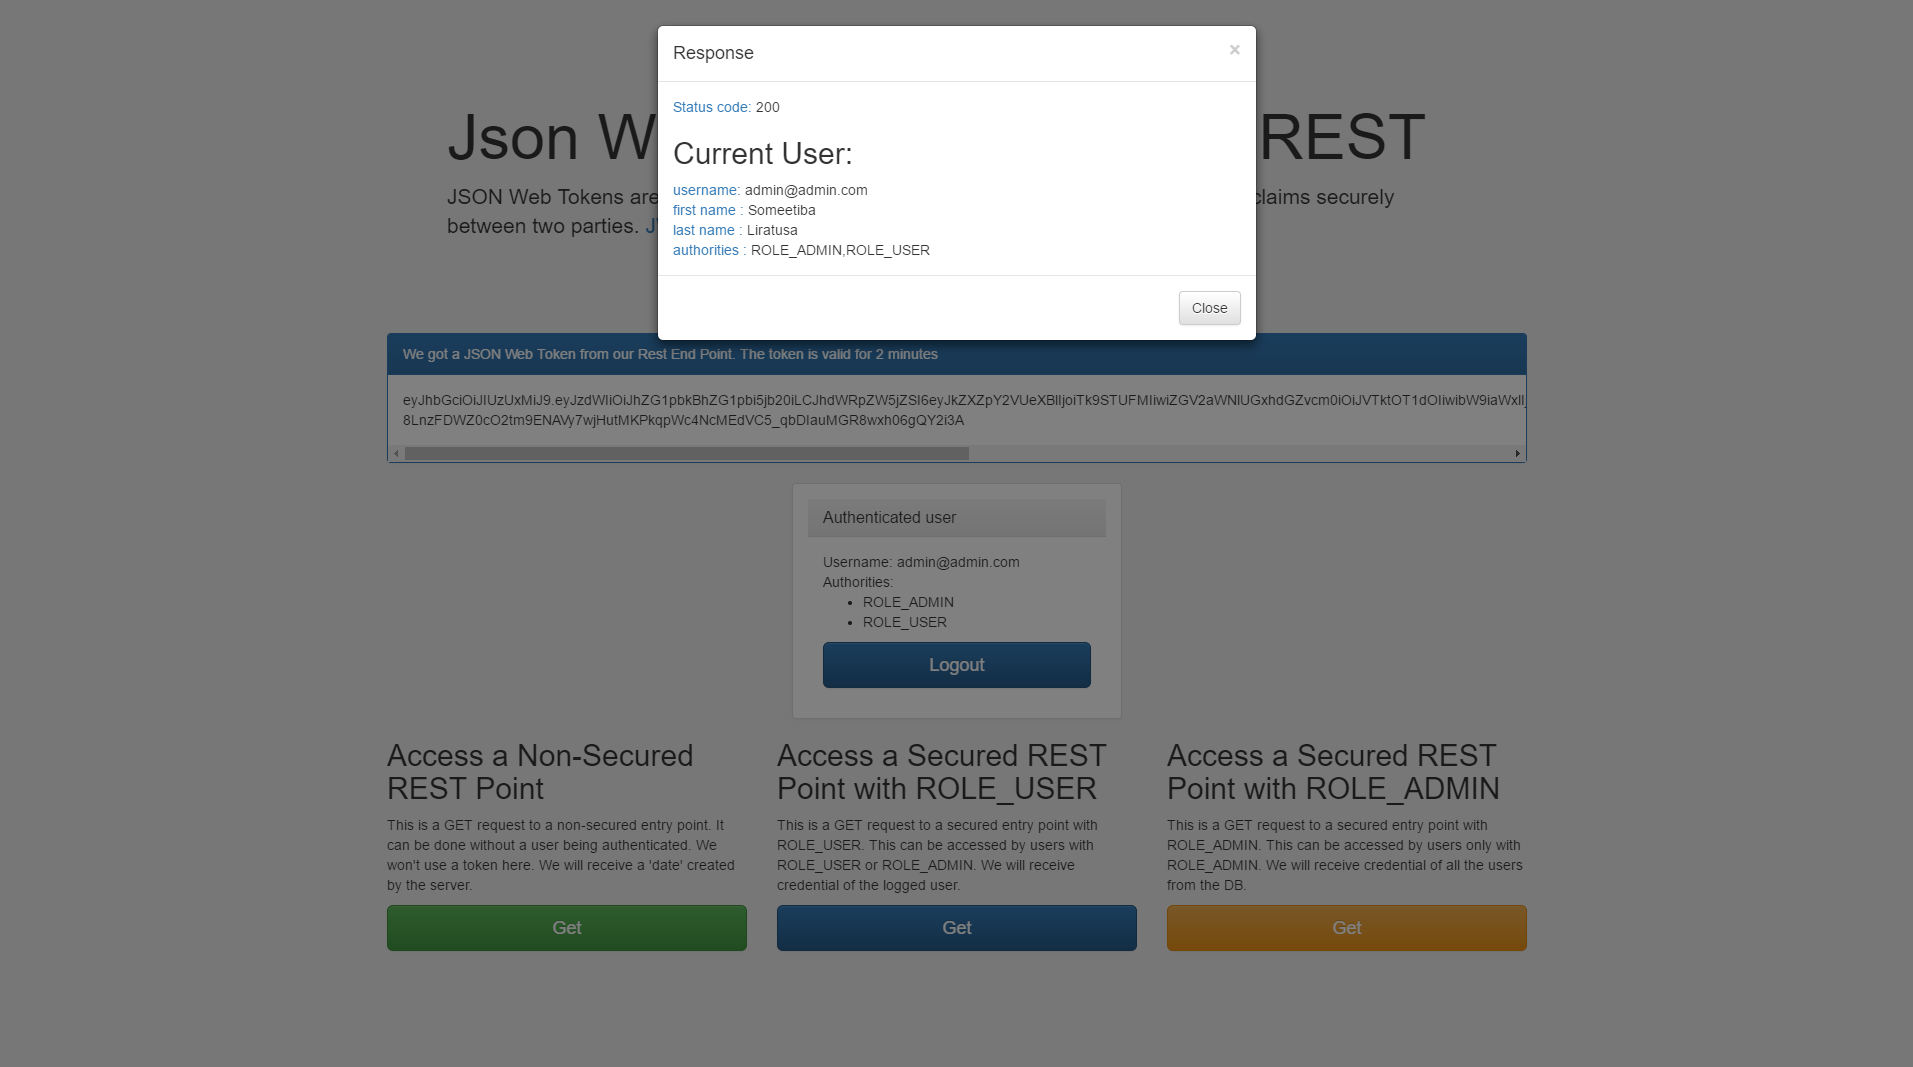
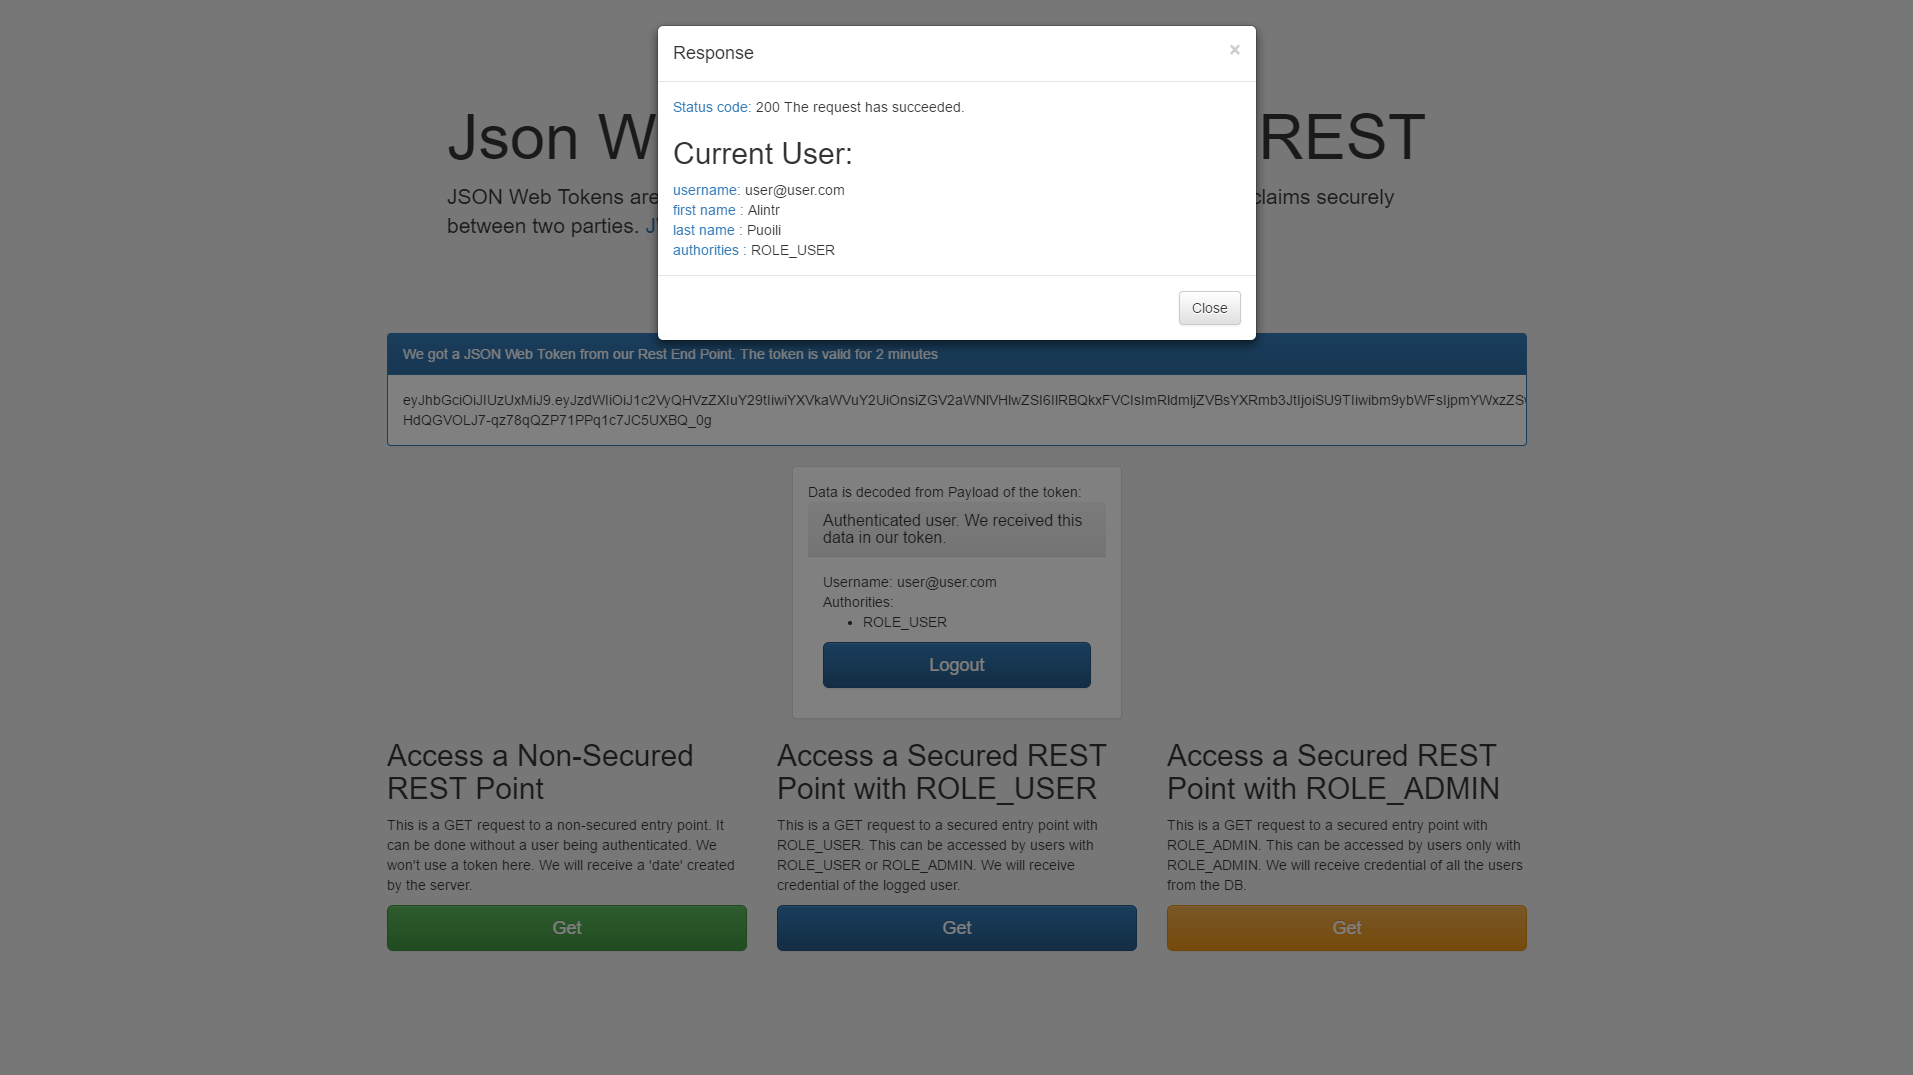
Minor changes how ui works.

diff --git a/src/main/resources/static/js/main.js b/src/main/resources/static/js/main.js
@@ -4,6 +4,15 @@
 
 var TOKEN_KEY = "jwtToken";
 
+//On window load we check if we have a token, and assume that is valid so we are logged
+document.addEventListener('DOMContentLoaded', function () {
+    if (localStorage.getItem(TOKEN_KEY) != null) {
+        $("#loginPanel").hide();
+        displayToken();
+        showTokenPayloadInformation();
+    }
+}, false);
+
 function login() {
 
     event.preventDefault();
@@ -23,9 +32,7 @@ function login() {
             localStorage.setItem(TOKEN_KEY, data.token);
             $("#loginPanel").hide();
             displayToken();
-            // $notLoggedIn.hide();
-            // showTokenInformation()
-            showUserInformation();
+            showTokenPayloadInformation();
         },
         error: function (jqXHR, textStatus, errorThrown) {
             if (jqXHR.status === 401 || jqXHR.status === 400) {
@@ -38,7 +45,6 @@ function login() {
             }
         }
     });
-
 }
 
 function displayToken() {
@@ -46,30 +52,30 @@ function displayToken() {
     $("#loggedIn").show();
 }
 
-function showUserInformation() {
-    $.ajax({
-        url: "/user",
-        type: "GET",
-        contentType: "application/json; charset=utf-8",
-        dataType: "json",
-        headers: getAuthTokenFromLocalStorage(),
-        success: function (data, textStatus, jqXHR) {
-            var $userInfoBody = $("#userInfoBody");
+function showTokenPayloadInformation() {
 
-            $userInfoBody.append($("<div>").text("Username: " + data.username));
+    var userInfoBody = $("#userInfoBody");
+    var tokenPayload = parseJwt(localStorage.getItem(TOKEN_KEY));
 
-            var $authorityList = $("<ul>");
-            data.authorities.forEach(function (authorityItem) {
-                $authorityList.append($("<li>").text(authorityItem.authority));
-            });
-            var $authorities = $("<div>").text("Authorities:");
-            $authorities.append($authorityList);
+    var $authorityList = $("<ul>");
 
-            $userInfoBody.append($authorities);
-            $("#userLoggedInfo").show();
-        }
+    tokenPayload.role.forEach(function (authorityItem) {
+        $authorityList.append($("<li>").text(authorityItem.authority));
     });
+
+    var $authorities = $("<div>").text("Authorities:");
+    $authorities.append($authorityList);
+
+    userInfoBody.append($("<div>").text("Username: " + tokenPayload.sub));
+    userInfoBody.append($authorities);
+    $("#userLoggedInfo").show();
 }
+
+function parseJwt(token) {
+    var base64Url = token.split('.')[1];
+    var base64 = base64Url.replace('-', '+').replace('_', '/');
+    return JSON.parse(window.atob(base64));
+};
 
 function getAuthTokenFromLocalStorage() {
     var token = localStorage.getItem(TOKEN_KEY);
@@ -87,7 +93,6 @@ function logout() {
     $("#userLoggedInfo").hide();
     $("#userInfoBody").empty();
     $("#loginPanel").show();
-
 }
 
 function getTodayDate() {
@@ -102,7 +107,7 @@ function getTodayDate() {
             $("#requestModal")
                 .modal("show")
                 .find(".modal-body")
-                .html("<a> Status code: </a>" + jqXHR.status
+                .html("<a> Status code: </a>" + createResponseStatus(jqXHR)
                     + "<p><h2>Time is: </h2></p>" + new Date(data));
         }
     });
@@ -126,7 +131,7 @@ function getUserDetails() {
             $("#requestModal")
                 .modal("show")
                 .find(".modal-body")
-                .html("<a> Status code: </a>" + jqXHR.status
+                .html("<a> Status code: </a>" + createResponseStatus(jqXHR)
                     + "<p><h2>Current User: </h2></p><a>username: </a> " + data.username
                     + "<br/><a>first name : </a> " + data.firstname
                     + "<br/><a>last name : </a> " + data.lastname
@@ -137,7 +142,11 @@ function getUserDetails() {
             $("#requestModal")
                 .modal("show")
                 .find(".modal-body")
-                .html("<a> Status code: </a>" + jqXHR.status);
+                .html("<a> Status code: </a>" + createResponseStatus(jqXHR));
+
+            if (jqXHR.status === 401) {
+                logout();
+            }
         }
     });
 }
@@ -156,9 +165,9 @@ function getAllUsers() {
             data.forEach(function (user) {
 
                 var authList = [];
-                 user.authorities.forEach(function (authItem) {
-                 authList.push(authItem.authority);
-                 });
+                user.authorities.forEach(function (authItem) {
+                    authList.push(authItem.authority);
+                });
 
                 users.push("<a>username: </a> " + user.username
                     + "<br/><a>first name : </a> " + user.firstname
@@ -170,19 +179,36 @@ function getAllUsers() {
             $("#requestModal")
                 .modal("show")
                 .find(".modal-body")
-                .html("<a> Status code: </a>" + jqXHR.status
+                .html("<a> Status code: </a>" + createResponseStatus(jqXHR)
                     + "<p><h2>All users: </h2></p>"
                     + "<br/>" + users
                 );
         },
         error: function (jqXHR, textStatus, errorThrown) {
+
             $("#requestModal")
                 .modal("show")
                 .find(".modal-body")
-                .html("<a> Status code: </a>" + jqXHR.status);
+                .html("<a> Status code: </a>" + createResponseStatus(jqXHR));
+
+            if (jqXHR.status === 401) {
+                logout();
+            }
         }
     });
+}
 
+function createResponseStatus(jqXHR) {
+
+    var responseStatus = jqXHR.status;
+    if (responseStatus === 401) {
+        responseStatus += " UNAUTHORIZED. The request has not been applied because it lacks valid authentication credentials for the target resource."
+    } else if (responseStatus === 403) {
+        responseStatus += " FORBIDDEN. The server understood the request but refuses to authorize it. Insufficient credentials"
+    } else if (responseStatus === 200) {
+        responseStatus += " The request has succeeded."
+    }
+    return responseStatus;
 }
 
 function clearLoginForm() {

diff --git a/src/main/resources/static/index.html b/src/main/resources/static/index.html
@@ -71,9 +71,9 @@
     </form>
 
     <div id="userLoggedInfo" style="display: none;">
-        <div class="panel panel-default" id="infoPanel">
+        <div class="panel panel-default" id="infoPanel"> <div>Data is decoded from Payload of the token:</div>
             <div class="panel-heading">
-                <h3 class="panel-title">Authenticated user</h3>
+                <h3 class="panel-title">Authenticated user. We received this data in our token.</h3>
             </div>
             <div class="panel-body">
                 <div id="userInfoBody"></div>
@@ -82,7 +82,6 @@
         </div>
     </div>
 
-    <!-- Example row of columns -->
     <div class="row">
         <div class="col-lg-4">
             <h2>Access a Non-Secured REST Point</h2>
@@ -123,8 +122,6 @@
         </div>
     </div>
 
-
 </div> <!-- /container -->
-
 </body>
 </html>

diff --git a/src/main/java/com/jwtauth/securityConfig/JwtTokenUtil.java b/src/main/java/com/jwtauth/securityConfig/JwtTokenUtil.java
@@ -27,9 +27,10 @@ public class JwtTokenUtil {
 
     private static final String CLAIM_KEY_USERNAME = "sub";
     private static final String CLAIM_KEY_AUDIENCE = "audience";
+    private static final String CLAIM_ROLE = "role";
 
     private Integer expirationInMinutes = 2;
-    private Key secretKey = MacProvider.generateKey();
+    private transient Key secretKey = MacProvider.generateKey(); //creates a 512-bit secure-random key (the default):
     /*@Value("${config.security.secret}")
     private String secretKey;*/
 
@@ -42,13 +43,14 @@ public class JwtTokenUtil {
 
         claims.put(CLAIM_KEY_USERNAME, userDetails.getUsername());
         claims.put(CLAIM_KEY_AUDIENCE, device);
+        claims.put(CLAIM_ROLE, userDetails.getAuthorities());
 
         return Jwts.builder()
                 .setClaims(claims)
                 .setIssuedAt(new Date())
                 .setExpiration(new Date(System.currentTimeMillis() + expirationInMinutes * 60000))
                 .setIssuer(issuer)
-                .signWith(SignatureAlgorithm.HS512, secretKey)
+                .signWith(SignatureAlgorithm.HS512, secretKey) //if we sign with 512 alg. we need also a 512-bit secretKey
                 .compact();
     }
 
@@ -71,11 +73,11 @@ public class JwtTokenUtil {
      */
     public boolean tokenIsValid(String authToken) {
 
-      Claims claims = getClaimsFromToken(authToken);
+        Claims claims = getClaimsFromToken(authToken);
 
-      if (claims == null || ! new Date().before(claims.getExpiration()) || ! claims.getIssuer().equals(issuer)) {
-          return false;
-      }
-      return true;
+        if (claims == null || !new Date().before(claims.getExpiration()) || !claims.getIssuer().equals(issuer)) {
+            return false;
+        }
+        return true;
     }
 }

diff --git a/README.md b/README.md
@@ -4,5 +4,5 @@ Example of a Spring Security End Point with JWT
 Screens
 -----------------------------------------------------
 ![alt text](https://github.com/aniov/JWT-Spring-Auth/blob/master/src/screens/screen-1.png "Screen one")
-![alt text](https://github.com/aniov/JWT-Spring-Auth/blob/master/src/screens/screen-2.png "Screen one")
-
+![alt text](https://github.com/aniov/JWT-Spring-Auth/blob/master/src/screens/screen-2.png "Screen two")
+![alt text](https://github.com/aniov/JWT-Spring-Auth/blob/master/src/screens/screen-3.png "Screen three")
